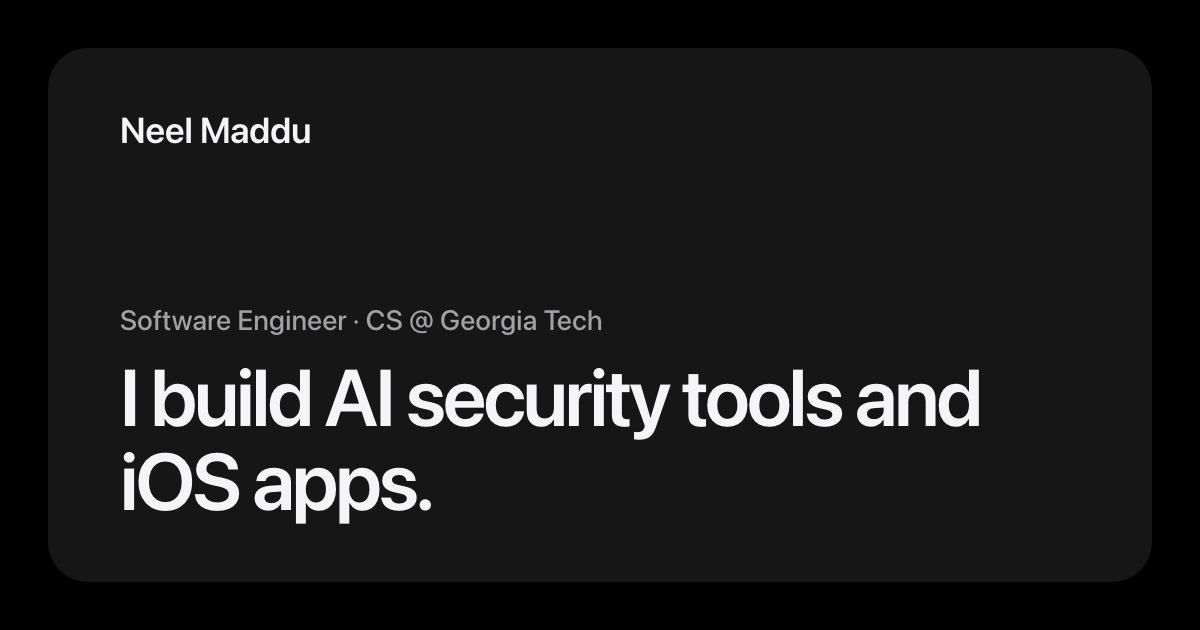
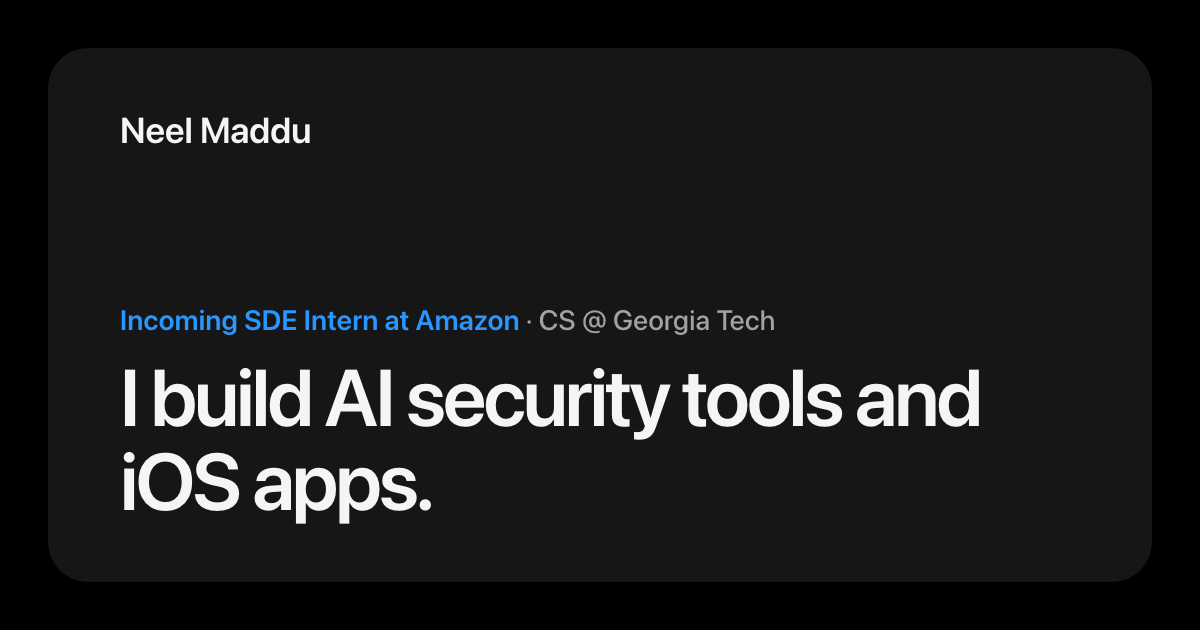
Make the Amazon internship the most visible thing on the homepage
- Hero label leads with "Incoming SDE Intern at Amazon" in the accent color
- Amazon takes the accent stat tile; GPA becomes a regular tile; the LLM 47% tile is
  removed (that project is still in Projects)
- "Incoming" badge on the Amazon experience row
- Link preview: new image and description mention Amazon; og:image is versioned so
  LinkedIn and Slack pick up the new image

Changed region(s): [[0.0925, 0.4825, 0.6475, 0.5429]]

diff --git a/pages/index.js b/pages/index.js
@@ -16,8 +16,9 @@ const experience = [
     org: 'Amazon',
     date: 'Jan 2027 – Apr 2027',
     slug: 'amazon',
-    summary: "Incoming. Joining SCOT Fulfillment Optimization, the team behind the Tier 1 services that decide how orders flow through Amazon's fulfillment network.",
+    summary: "Joining SCOT Fulfillment Optimization, the team behind the Tier 1 services that decide how orders flow through Amazon's fulfillment network.",
     page: false,
+    badge: 'Incoming',
   },
   {
     role: 'Software Engineer Intern',
@@ -104,10 +105,10 @@ export default function Home() {
           <div className="section">
             <div className="row">
               <div className="tile hero-intro">
-                <span className="tile-label">Software Engineer · CS @ Georgia Tech</span>
+                <span className="tile-label"><span className="label-accent">Incoming SDE Intern at Amazon</span> · CS @ Georgia Tech</span>
                 <h1 className="hero-title">I build AI security tools and iOS apps.</h1>
                 <p className="hero-body">
-                  Incoming SDE intern at Amazon. Software engineer intern at GTRI&apos;s CIPHER Lab, evaluating agentic LLMs against adversarial attacks. Tech Lead of the 20+ person iOS Club team building Contour.
+                  Software engineer intern at GTRI&apos;s CIPHER Lab, evaluating agentic LLMs against adversarial attacks. Tech Lead of the 20+ person iOS Club team building Contour.
                 </p>
                 <div className="hero-actions">
                   <a href={RESUME_HREF} target="_blank" rel="noopener noreferrer" className="pill pill-accent">Download resume</a>
@@ -123,6 +124,11 @@ export default function Home() {
 
             <div className="row stats-row">
               <div className="tile stat stat-accent">
+                <span className="tile-label">Incoming SDE Intern</span>
+                <span className="stat-value stat-word">Amazon</span>
+                <span className="stat-caption">Jan – Apr 2027 · Supply Chain Optimization Technologies</span>
+              </div>
+              <div className="tile stat">
                 <span className="tile-label">Georgia Tech · B.S. Computer Science</span>
                 <span className="stat-value">4.0</span>
                 <span className="stat-caption">GPA · graduating Dec 2027</span>
@@ -146,11 +152,6 @@ export default function Home() {
                 </div>
                 <span className="stat-caption">events found vs the public catalog</span>
               </div>
-              <div className="tile stat">
-                <span className="tile-label">LLM Red-Teaming</span>
-                <span className="stat-value value-accent">47%</span>
-                <span className="stat-caption">peak breakthrough rate on local 7–8B models</span>
-              </div>
             </div>
           </div>
 
@@ -162,7 +163,10 @@ export default function Home() {
                 {experience.map((exp) => exp.page === false ? (
                   <div key={exp.slug} id={`exp-${exp.slug}`} className="exp-row">
                     <div className="exp-head">
-                      <div className="exp-title">{exp.role} <span className="exp-org">· {exp.org}</span></div>
+                      <div className="exp-title">
+                        {exp.role} <span className="exp-org">· {exp.org}</span>
+                        {exp.badge && <span className="exp-badge">{exp.badge}</span>}
+                      </div>
                       <div className="exp-date">{exp.date}</div>
                     </div>
                     <div className="exp-line">{exp.summary}</div>

diff --git a/components/Seo.js b/components/Seo.js
@@ -3,7 +3,7 @@ import { useRouter } from 'next/router';
 
 export const SITE_URL = 'https://neel-ai-portfolio.vercel.app';
 const DEFAULT_TITLE = 'Neel Maddu';
-const DEFAULT_DESCRIPTION = 'Neel Maddu builds AI security tools and iOS apps.';
+const DEFAULT_DESCRIPTION = 'Incoming SDE intern at Amazon. Neel Maddu builds AI security tools and iOS apps.';
 
 // Title, description and link-preview tags. Rendered once in _app as the site-wide default;
 // a page renders it again with its own title/description, and the keys make the page's win.
@@ -21,10 +21,10 @@ export default function Seo({ title = DEFAULT_TITLE, description = DEFAULT_DESCR
       <meta key="og:title" property="og:title" content={title} />
       <meta key="og:description" property="og:description" content={description} />
       <meta key="og:url" property="og:url" content={url} />
-      <meta key="og:image" property="og:image" content={`${SITE_URL}/og.png`} />
+      <meta key="og:image" property="og:image" content={`${SITE_URL}/og.png?v=2`} />
       <meta key="og:image:width" property="og:image:width" content="1200" />
       <meta key="og:image:height" property="og:image:height" content="630" />
-      <meta key="og:image:alt" property="og:image:alt" content="Neel Maddu: I build AI security tools and iOS apps." />
+      <meta key="og:image:alt" property="og:image:alt" content="Neel Maddu, incoming SDE intern at Amazon: I build AI security tools and iOS apps." />
       <meta key="twitter:card" name="twitter:card" content="summary_large_image" />
     </Head>
   );

diff --git a/styles/globals.css b/styles/globals.css
@@ -236,6 +236,11 @@ main.wrap {
   color: var(--muted);
 }
 
+.label-accent {
+  color: var(--accent);
+  font-weight: 600;
+}
+
 h1.hero-title {
   font-size: clamp(38px, 4.6vw, 62px);
   font-weight: 600;
@@ -291,6 +296,12 @@ h1.hero-title {
 
 .stat-accent .stat-value {
   color: var(--on-accent);
+}
+
+/* A word (not a number) in the value slot: slightly smaller so it fits the tile */
+.stat-word {
+  font-size: 52px;
+  white-space: nowrap;
 }
 
 .value-accent {
@@ -382,6 +393,18 @@ a.exp-row:hover .exp-title {
 .exp-org {
   color: var(--muted);
   font-weight: 400;
+}
+
+.exp-badge {
+  display: inline-block;
+  margin-left: 10px;
+  padding: 3px 10px;
+  border-radius: 980px;
+  background: var(--accent);
+  color: var(--on-accent);
+  font-size: 12px;
+  font-weight: 600;
+  vertical-align: 3px;
 }
 
 .exp-date {
@@ -887,6 +910,10 @@ a.exp-row:hover .exp-title {
 
   .stats-row .stat-value {
     font-size: 40px;
+  }
+
+  .stats-row .stat-word {
+    font-size: 32px;
   }
 
   .proj-feature {
